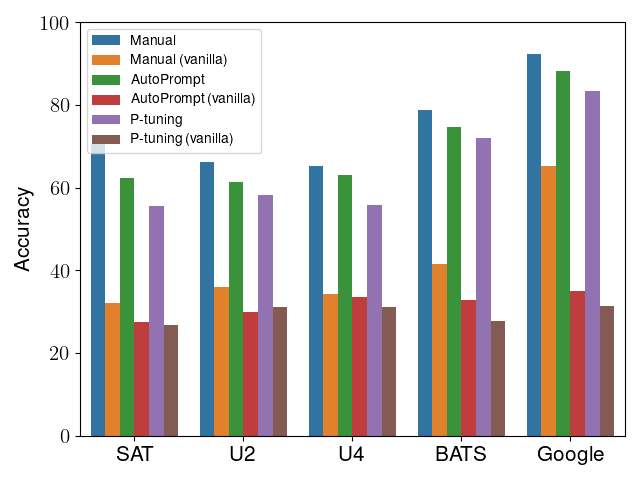
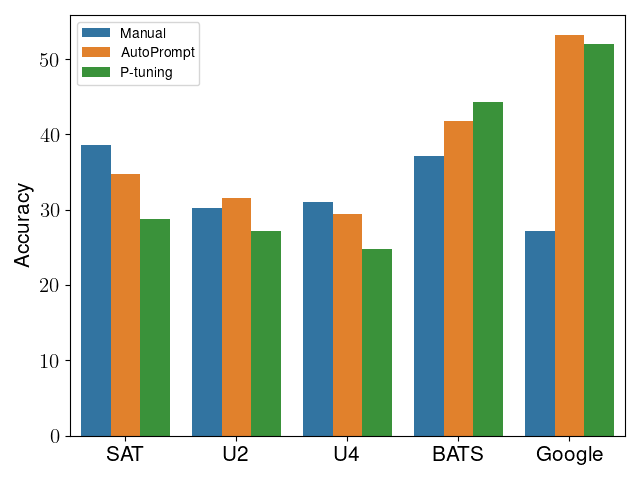
update README

diff --git a/examples/experiments/plot.py b/examples/experiments/plot.py
@@ -6,7 +6,7 @@ import seaborn as sns
 from matplotlib import pylab as plt
 
 # get the best config in terms of loss realization
-df = pd.read_csv('output/eval/accuracy.analogy.csv', index_col=0)
+df = pd.read_csv('examples/experiments/output/eval/accuracy.analogy.csv', index_col=0)
 df_vanilla = df[df.template_type == df.template_type].sort_values(by=['validation_loss', 'data'])
 df = df[df.template_type != df.template_type].sort_values(by=['validation_loss', 'data'])
 cat = []
@@ -124,14 +124,23 @@ root_dir = 'examples/experiments/output/figure'
 os.makedirs(root_dir, exist_ok=True)
 fontsize = 15
 
+list_tmp = []
+for data_name in ['BATS', 'Google', 'SAT', 'U2', 'U4']:
+    _df = df[df.Data == data_name]
+    for m in ['Manual', 'AutoPrompt', 'P-tuning']:
+        a = _df[_df.Model == m]['Accuracy'].values[0] - _df[_df.Model == m + ' (vanilla)']['Accuracy'].values[0]
+        list_tmp.append([m, a, data_name])
+df_tmp = pd.DataFrame(list_tmp, columns=['Model', 'Accuracy', 'Data'])
+df = df_tmp
 fig = plt.figure()
 fig.clear()
-order = ['Manual', 'Manual (vanilla)',
-         'AutoPrompt', 'AutoPrompt (vanilla)',
-         'P-tuning', 'P-tuning (vanilla)']
+# order = ['Manual', 'Manual (vanilla)',
+#          'AutoPrompt', 'AutoPrompt (vanilla)',
+#          'P-tuning', 'P-tuning (vanilla)']
+order = ['Manual', 'AutoPrompt', 'P-tuning']
 ax = sns.barplot(data=df, x='Data', y='Accuracy', hue='Model', order=['SAT', 'U2', 'U4', 'BATS', 'Google'],
                  hue_order=order)
-ax.set(ylim=(0, 100))
+# ax.set(ylim=(0, 60))
 handles, labels = ax.get_legend_handles_labels()
 ax.legend(handles=handles, labels=labels)
 plt.setp(ax.get_legend().get_texts(), fontsize=10)
